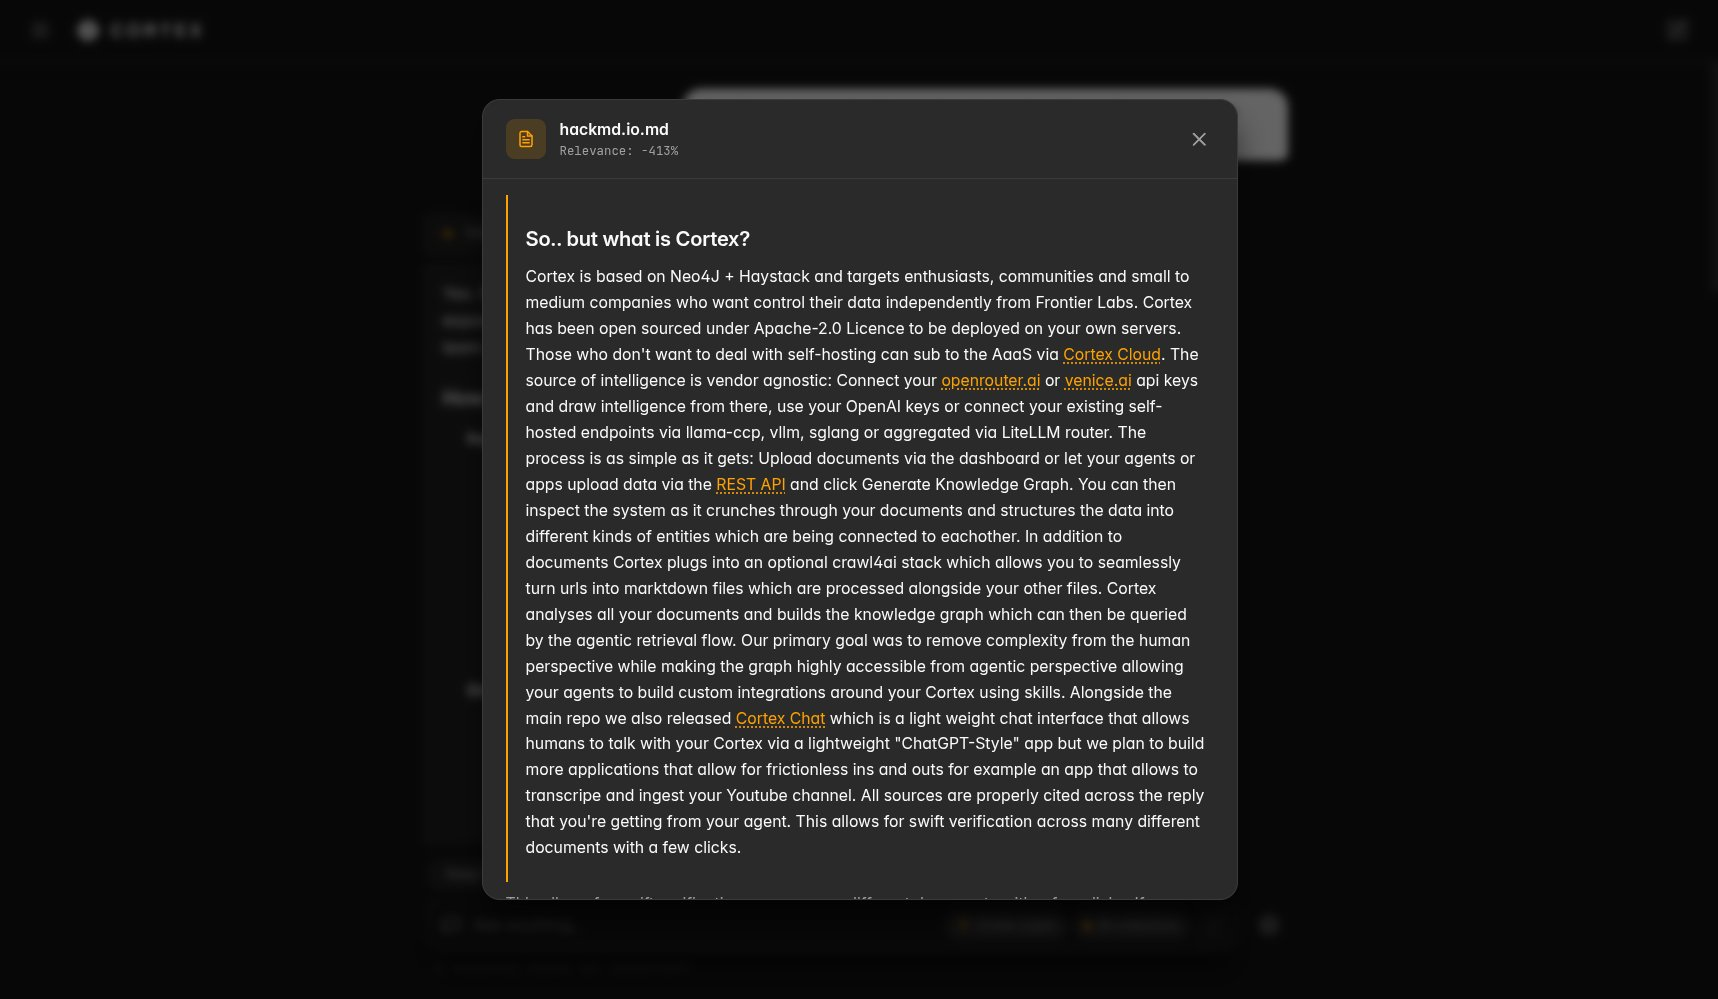
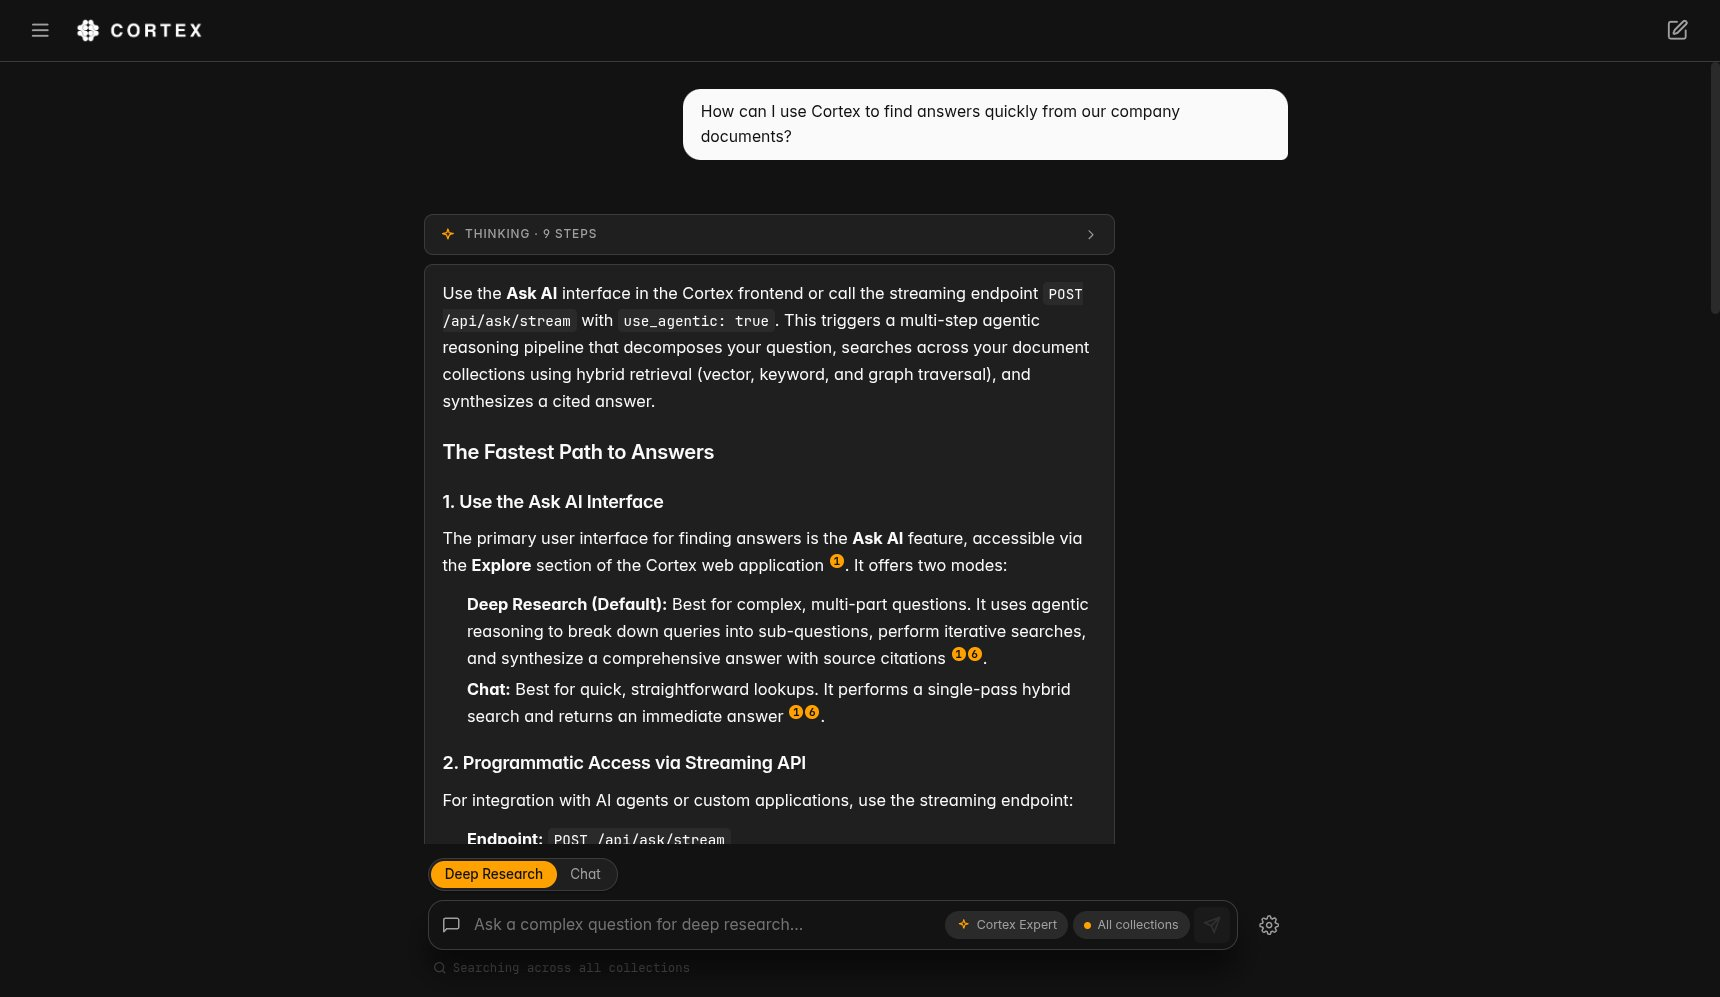
optimize readme

diff --git a/README.md b/README.md
@@ -125,9 +125,10 @@ This repository is the core of Cortex — the backend, knowledge graph pipeline,
   - **Explore**: Knowledge Graph, Entities, Relationships, Communities, Deep Research, Chat
 
 <p align="center">
-  <img src=".github/media/cortex-chat-3.jpg" alt="Source modal showing the underlying document a citation points to" width="70%" />
+  <img src=".github/media/cortex-chat-3.jpg" alt="A Deep Research answer with visible thinking steps and inline numbered citation badges" width="49%" />
+  <img src=".github/media/cortex-chat-4.jpg" alt="Source modal opened from a citation, showing the underlying document chunk with its relevance score" width="49%" />
   <br />
-  <sub><i>Every citation opens the underlying source, so any claim can be verified in one click.</i></sub>
+  <sub><i>Answers arrive with inline citations — and every citation opens the underlying source, so any claim can be verified in one click.</i></sub>
 </p>
 
 ### GraphRAG Features
